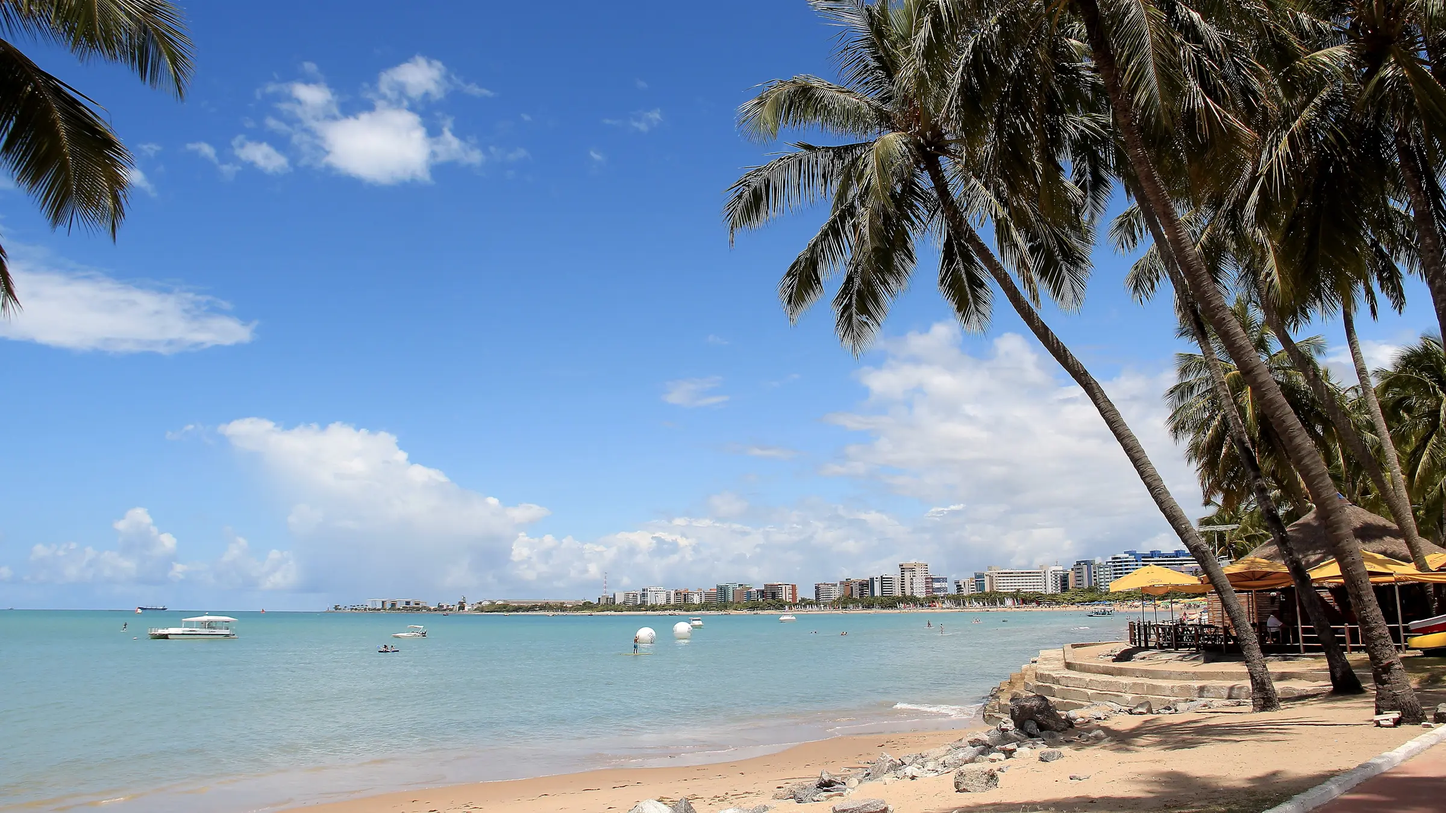
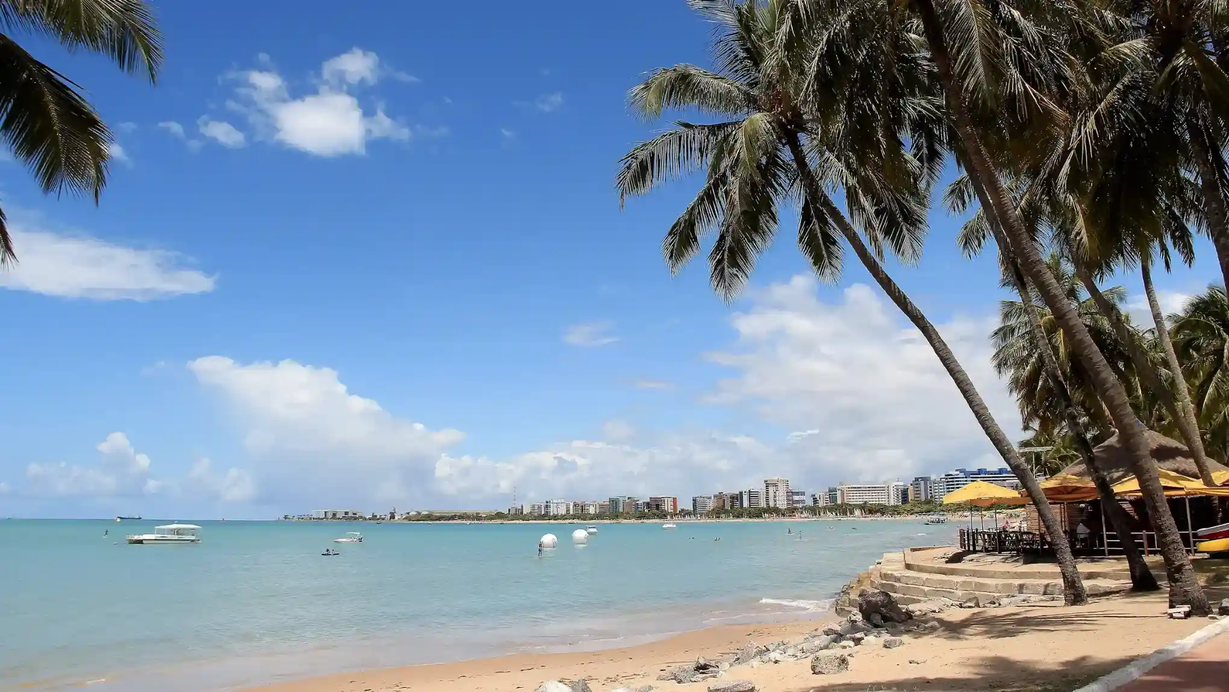
fix colors, and others and add child wind formula in js

diff --git a/place.html b/place.html
@@ -35,7 +35,7 @@
                         src="images/hero-maceio-brazil-wide.webp"
                         alt="Beach in Maceió, Brazil"
                         width="2400"
-                        height=auto
+                        height="1350"
                     >
                 </picture>
 
@@ -103,7 +103,7 @@
 
                         <div>
                             <dt>Wind Chill:</dt>
-                            <dd>30 °C</dd>
+                            <dd><span id="windchill"></span></dd>
                         </div>
                     </dl>
                 </section>

diff --git a/scripts/place.js b/scripts/place.js
@@ -1,3 +1,19 @@
+const temperature = 28;
+const windSpeed = 14;
+
+function calculateWindChill(temperature, windSpeed) {
+    return 13.12 + (0.6215 * temperature) - (11.37 * Math.pow(windSpeed, 0.16)) + (0.3965 * temperature * Math.pow(windSpeed, 0.16));
+}
+
+const windChillElement = document.querySelector("#windchill");
+
+if (temperature <= 10 && windSpeed > 4.8) {
+    windChillElement.textContent = `${calculateWindChill(temperature, windSpeed).toFixed(1)} °C`;
+} else {
+    windChillElement.textContent = "N/A";
+}
+
+
 // FOOTER
 
 // first: get the current year

diff --git a/styles/place.css b/styles/place.css
@@ -78,8 +78,7 @@ h1 {
     color: var(--border-color);
     margin-bottom: 15px;
     font-size: 1.3rem;
-    font-weight: 400;
-    font-weight: bold;
+    font-weight: 700;
 }
 
 /* ---------------------------
@@ -140,7 +139,6 @@ footer p {
 }
 
 #lastModified {
-    color: var(--last-color);
     font-size: 0.9rem;
     font-weight: bold;
 }
